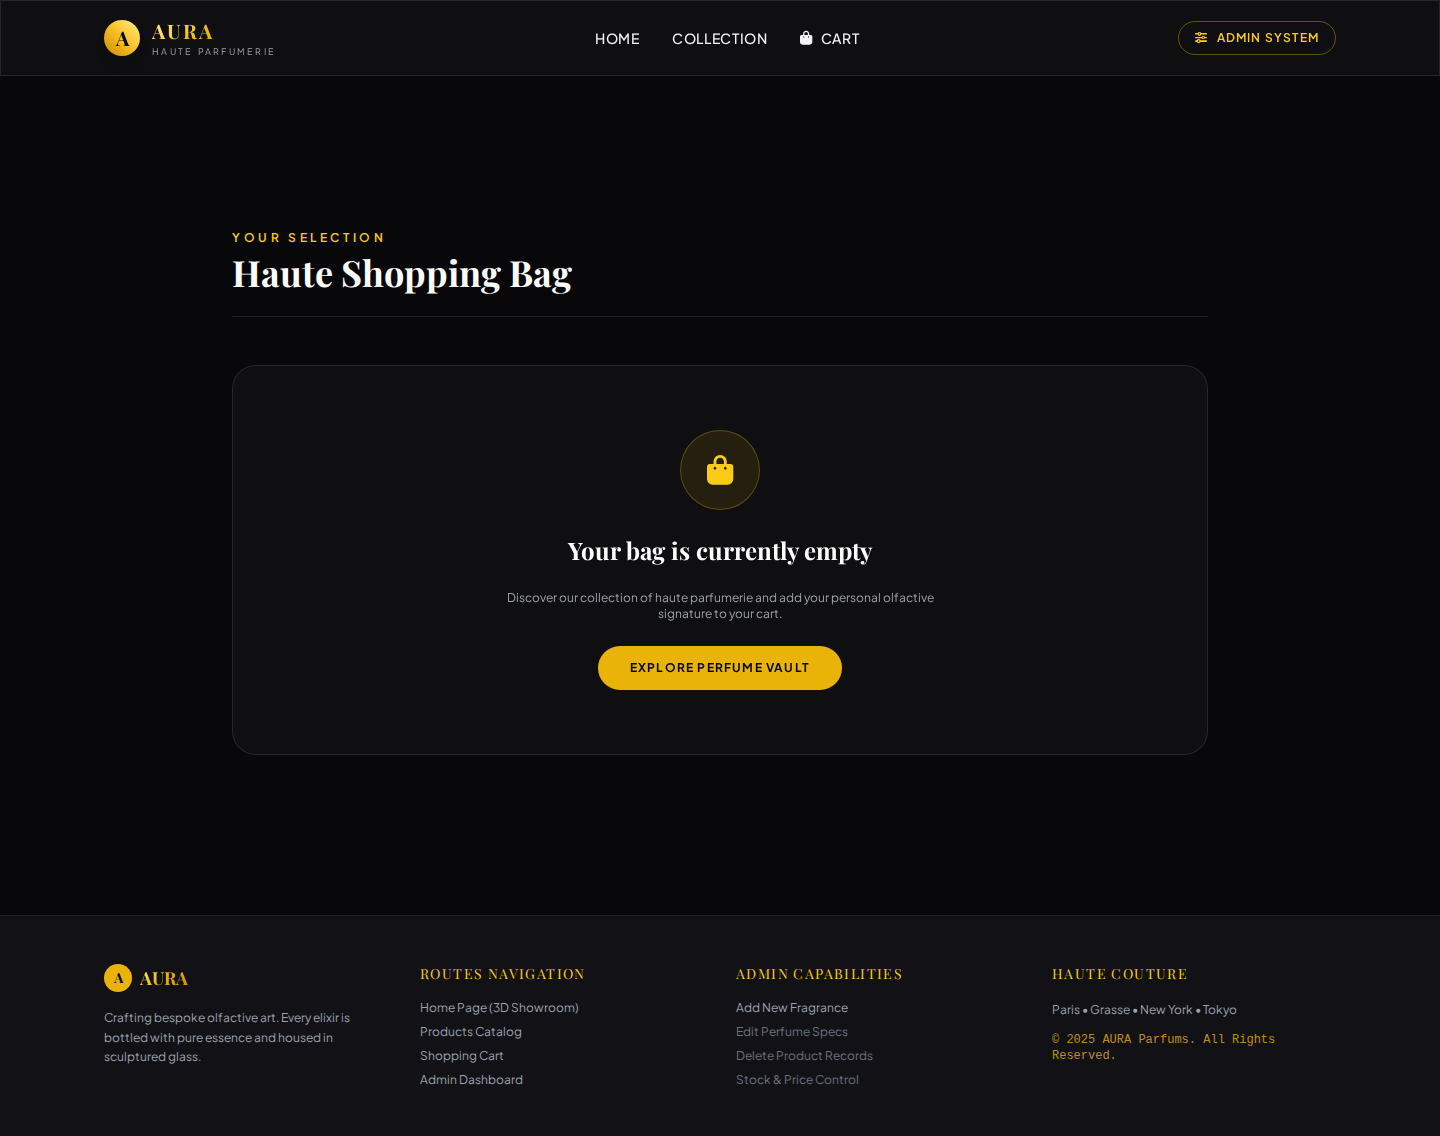
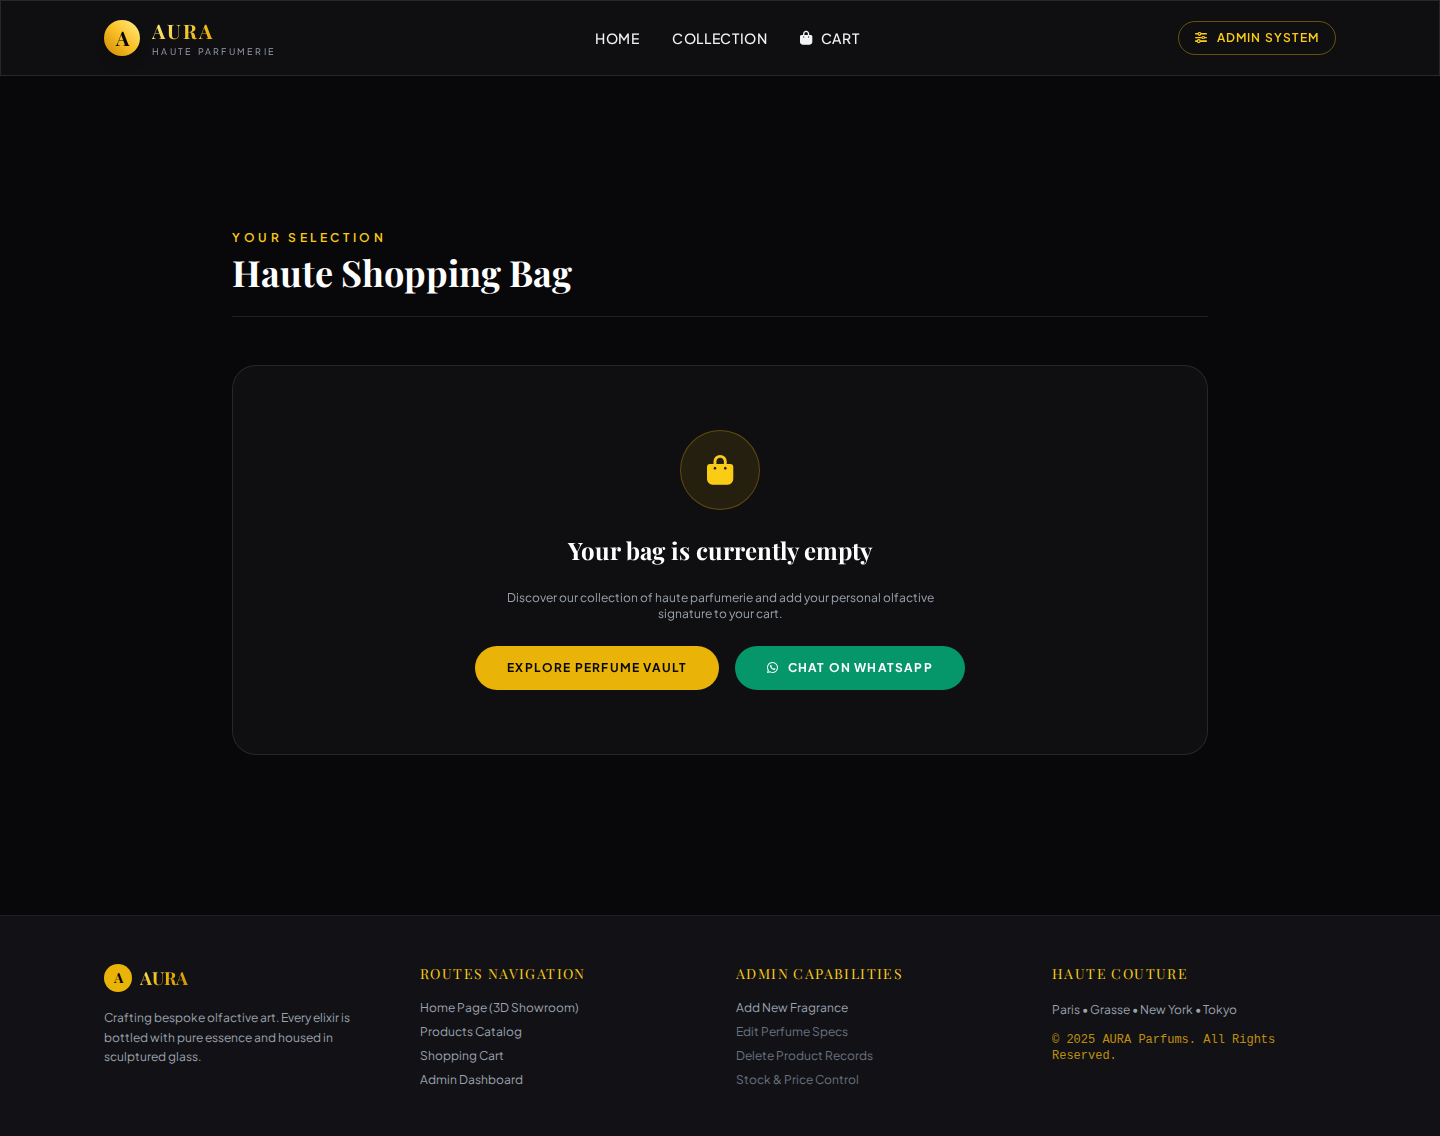
Add WhatsApp ordering redirection and fix Vercel static asset routing

Changed region(s): [[0.3125, 0.5546, 0.6875, 0.6162]]

diff --git a/templates/cart.html b/templates/cart.html
@@ -39,7 +39,7 @@
             </form>
         </div>
 
-        <!-- Order Summary -->
+        <!-- Order Summary & WhatsApp Redirect -->
         <div class="lg:col-span-4 glass-panel p-6 rounded-2xl border border-gold-500/30 space-y-6 h-fit">
             <h3 class="font-serif text-xl font-bold text-white border-b border-white/10 pb-4">Order Summary</h3>
 
@@ -62,8 +62,20 @@
                 </div>
             </div>
 
-            <button onclick="alert('Order placed successfully! Thank you for choosing AURA Parfums.')" class="w-full py-4 rounded-xl bg-gradient-to-r from-gold-500 to-amber-600 hover:brightness-110 text-obsidian-900 font-bold text-xs uppercase tracking-widest transition-all shadow-lg shadow-gold-500/20">
-                Proceed To Checkout
+            {% set whatsapp_msg = "Hello AURA Parfums! I would like to place an order from my bag:\n" %}
+            {% for item in cart_products %}
+                {% set whatsapp_msg = whatsapp_msg ~ "- " ~ item.product.name ~ " (x" ~ item.quantity ~ ") - $" ~ "%.2f"|format(item.subtotal) ~ "\n" %}
+            {% endfor %}
+            {% set whatsapp_msg = whatsapp_msg ~ "Total Amount: $" ~ "%.2f"|format(total_price) %}
+
+            <a href="https://wa.me/2349167979659?text={{ whatsapp_msg|urlencode }}" target="_blank" class="w-full py-4 rounded-xl bg-emerald-600 hover:bg-emerald-500 text-white font-bold text-xs uppercase tracking-widest transition-all shadow-lg shadow-emerald-600/30 flex items-center justify-center gap-2">
+                <i class="fa-brands fa-whatsapp text-lg"></i>
+                <span>Order via WhatsApp</span>
+            </a>
+
+            <button onclick="window.location.href='https://wa.me/2349167979659?text={{ whatsapp_msg|urlencode }}'" class="w-full py-3.5 rounded-xl bg-gradient-to-r from-gold-500 to-amber-600 hover:brightness-110 text-obsidian-900 font-bold text-xs uppercase tracking-widest transition-all shadow-lg shadow-gold-500/20 flex items-center justify-center gap-2">
+                <i class="fa-solid fa-lock"></i>
+                <span>Proceed To Checkout</span>
             </button>
         </div>
     </div>
@@ -76,9 +88,15 @@
         <p class="text-xs text-gray-400 max-w-md mx-auto">
             Discover our collection of haute parfumerie and add your personal olfactive signature to your cart.
         </p>
-        <a href="{{ url_for('products_list') }}" class="inline-block px-8 py-3.5 rounded-full bg-gold-500 hover:bg-gold-400 text-obsidian-900 font-bold text-xs uppercase tracking-widest transition-all">
-            Explore Perfume Vault
-        </a>
+        <div class="flex flex-col sm:flex-row items-center justify-center gap-4">
+            <a href="{{ url_for('products_list') }}" class="px-8 py-3.5 rounded-full bg-gold-500 hover:bg-gold-400 text-obsidian-900 font-bold text-xs uppercase tracking-widest transition-all">
+                Explore Perfume Vault
+            </a>
+            <a href="https://wa.me/2349167979659?text={{ 'Hello AURA Parfums, I have an inquiry about your fragrances.'|urlencode }}" target="_blank" class="px-8 py-3.5 rounded-full bg-emerald-600 hover:bg-emerald-500 text-white font-bold text-xs uppercase tracking-widest transition-all flex items-center gap-2">
+                <i class="fa-brands fa-whatsapp"></i>
+                <span>Chat on WhatsApp</span>
+            </a>
+        </div>
     </div>
     {% endif %}
 </section>

diff --git a/templates/product_detail.html b/templates/product_detail.html
@@ -92,19 +92,27 @@
             </div>
             {% endif %}
 
-            <!-- Add to Cart Form -->
-            <form action="{{ url_for('add_to_cart') }}" method="POST" class="space-y-4 pt-4">
-                <input type="hidden" name="product_id" value="{{ product.id }}">
-                <div class="flex items-center gap-4">
-                    <label class="text-xs uppercase tracking-widest text-gray-400 font-semibold">Quantity:</label>
-                    <input type="number" name="quantity" value="1" min="1" max="{{ product.stock }}" class="w-20 px-3 py-2 bg-obsidian-900 border border-white/20 rounded-xl text-center text-white focus:outline-none focus:border-gold-500">
-                </div>
+            <!-- Actions -->
+            <div class="space-y-4 pt-2">
+                <form action="{{ url_for('add_to_cart') }}" method="POST" class="space-y-4">
+                    <input type="hidden" name="product_id" value="{{ product.id }}">
+                    <div class="flex items-center gap-4">
+                        <label class="text-xs uppercase tracking-widest text-gray-400 font-semibold">Quantity:</label>
+                        <input type="number" name="quantity" value="1" min="1" max="{{ product.stock }}" class="w-20 px-3 py-2 bg-obsidian-900 border border-white/20 rounded-xl text-center text-white focus:outline-none focus:border-gold-500">
+                    </div>
 
-                <button type="submit" {% if product.stock <= 0 %}disabled{% endif %} class="w-full py-4 rounded-2xl bg-gradient-to-r from-gold-500 to-amber-600 hover:brightness-110 text-obsidian-900 font-bold text-sm tracking-widest uppercase transition-all shadow-xl shadow-amber-500/20 disabled:opacity-50 flex items-center justify-center gap-3">
-                    <i class="fa-solid fa-bag-shopping"></i>
-                    <span>Add To Luxury Bag</span>
-                </button>
-            </form>
+                    <button type="submit" {% if product.stock <= 0 %}disabled{% endif %} class="w-full py-4 rounded-2xl bg-gradient-to-r from-gold-500 to-amber-600 hover:brightness-110 text-obsidian-900 font-bold text-sm tracking-widest uppercase transition-all shadow-xl shadow-amber-500/20 disabled:opacity-50 flex items-center justify-center gap-3">
+                        <i class="fa-solid fa-bag-shopping"></i>
+                        <span>Add To Luxury Bag</span>
+                    </button>
+                </form>
+
+                {% set single_wa_msg = "Hello AURA Parfums! I am interested in ordering: " ~ product.name ~ " ($" ~ "%.2f"|format(product.price) ~ ")" %}
+                <a href="https://wa.me/2349167979659?text={{ single_wa_msg|urlencode }}" target="_blank" class="w-full py-3.5 rounded-2xl bg-emerald-600 hover:bg-emerald-500 text-white font-bold text-xs uppercase tracking-widest transition-all shadow-lg shadow-emerald-600/30 flex items-center justify-center gap-2">
+                    <i class="fa-brands fa-whatsapp text-lg"></i>
+                    <span>Order Directly via WhatsApp</span>
+                </a>
+            </div>
 
             <!-- Admin Quick Link -->
             <div class="pt-4 border-t border-white/10 flex items-center justify-between text-xs text-gray-400">
